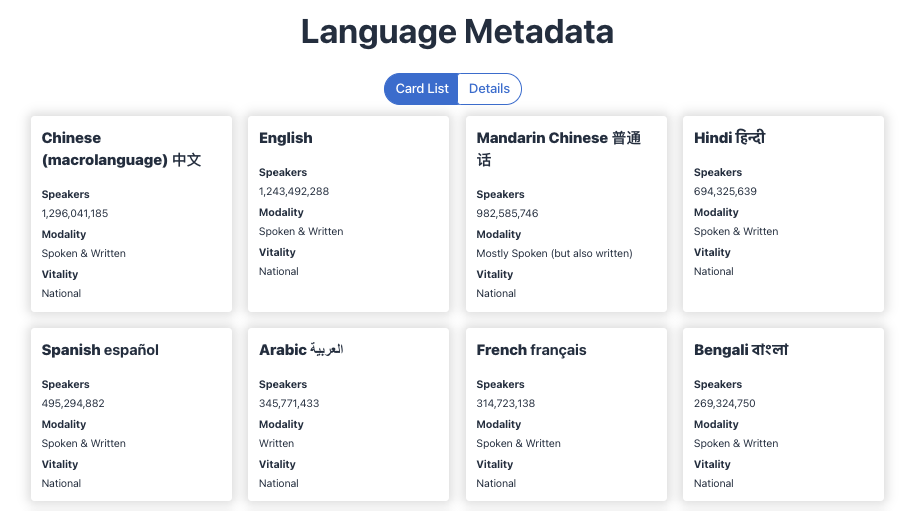
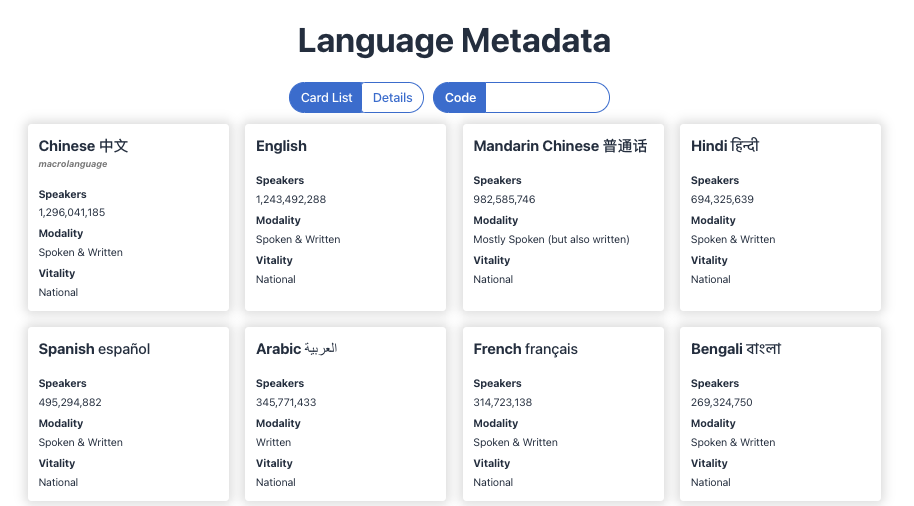
Add language details view

diff --git a/src/views/LanguageDetails.tsx b/src/views/LanguageDetails.tsx
@@ -1,0 +1,102 @@
+import React from 'react';
+import { LanguageData } from '../dataloading/DataTypes';
+import { ViewType } from '../controls/PageParamTypes';
+import { usePageParams } from '../controls/PageParamsContext';
+import { separateTitleAndSubtitle } from '../utils/stringUtils';
+
+interface Props {
+  lang: LanguageData | null;
+}
+
+const LanguageDetails: React.FC<Props> = ({ lang }) => {
+  if (lang == null) {
+    const { updatePageParams } = usePageParams();
+
+    return (
+      <div className="Details">
+        No language selected. Enter a language code in the search bar. See common languages:
+        <div style={{ display: 'flex', gap: 10, flexWrap: 'wrap' }}>
+          {Object.entries({
+            eng: 'English',
+            spa: 'Spanish',
+            fra: 'French',
+            deu: 'German',
+            zho: 'Chinese',
+            ara: 'Arabic',
+          }).map(([code, name]) => (
+            <button
+              key={code}
+              onClick={() => updatePageParams({ code, viewType: ViewType.Details })}
+            >
+              {name}
+            </button>
+          ))}
+        </div>
+      </div>
+    );
+  }
+
+  const {
+    code,
+    glottocode,
+    medium,
+    nameDisplay,
+    nameEndonym,
+    populationCited,
+    script,
+    viabilityConfidence,
+    viabilityExplanation,
+    vitalityEth2013,
+    vitalityEth2025,
+  } = lang;
+  const [title, subtitle] = separateTitleAndSubtitle(nameDisplay);
+
+  return (
+    <div className="Details">
+      <h2>
+        <strong>{title}</strong> {title != nameEndonym && nameEndonym}
+        {subtitle != null && <div className="subtitle">{subtitle} </div>}
+      </h2>
+      <div>
+        <h3>Attributes</h3>
+        <div>
+          <label>Language Code:</label>
+          {code}
+        </div>
+        <div>
+          <label>Glottocode:</label>
+          {glottocode}
+        </div>
+        <div>
+          <label>Population:</label>
+          {populationCited.toLocaleString()}
+        </div>
+        <div>
+          <label>Modality:</label>
+          {medium}
+        </div>
+        <div>
+          <label>Writing System:</label>
+          {script}
+        </div>
+      </div>
+      <div>
+        <h3>Vitality & Viability</h3>
+        <div>
+          <label>Vitality (2013):</label>
+          {vitalityEth2013}
+        </div>
+        <div>
+          <label>Vitality (2025):</label>
+          {vitalityEth2025}
+        </div>
+        <div>
+          <label>Viability:</label>
+          {viabilityConfidence} ... {viabilityExplanation}
+        </div>
+      </div>
+    </div>
+  );
+};
+
+export default LanguageDetails;

diff --git a/src/views/styles.css b/src/views/styles.css
@@ -12,9 +12,43 @@
     text-align: start;
 }
 
-.ViewCard h3 { 
+.ViewCard h3 {
     /* It's at the top of the card already */
     margin-top: 0px;
+}
+
+.Details {
+    text-align: start;
+    max-width: 50%;
+    margin-left: auto;
+    margin-right: auto;
+}
+
+
+.Details h3 {
+    margin-bottom: 4px;
+}
+
+
+.subtitle {
+    font-size: 0.6em;
+    color: grey;
+    margin-top: 0px;
+    font-style: italic;
+}
+
+label {
+    font-weight: 600;
+    margin-right: 4px;
+}
+
+a {
+    color: inherit;
+    cursor: pointer;
+}
+a:hover {
+    color: inherit;
+    text-decoration: underline;
 }
 
 @media (min-width: 0px) {
@@ -22,21 +56,21 @@
         grid-template-columns: repeat(1, 1fr);
     }
 }
-  
-  @media (min-width: 500px) {
+
+@media (min-width: 500px) {
     .CardList {
-      grid-template-columns: repeat(2, 1fr);
+        grid-template-columns: repeat(2, 1fr);
     }
-  }
-  
-  @media (min-width: 800px) {
+}
+
+@media (min-width: 800px) {
     .CardList {
-      grid-template-columns: repeat(3, 1fr);
+        grid-template-columns: repeat(3, 1fr);
     }
-  }
-  
-  @media (min-width: 1100px) {
+}
+
+@media (min-width: 1100px) {
     .CardList {
-      grid-template-columns: repeat(4, 1fr);
+        grid-template-columns: repeat(4, 1fr);
     }
-  }
+}

diff --git a/src/controls/PageParamsContext.tsx b/src/controls/PageParamsContext.tsx
@@ -14,22 +14,20 @@ export const PageParamsProvider: React.FC<{ children: React.ReactNode }> = ({ ch
   const getParam = (key: string, fallback: string = '') => pageParams.get(key) ?? fallback;
 
   const updatePageParams = (newParams: PageParamsOptional) => {
-    // const next = new URLSearchParams(pageParams);
-    // Object.entries(newParams).forEach(([key, value]) => {
-    //   if (value === undefined) {
-    //     next.delete(key);
-    //   } else {
-    //     next.set(key, value.toString());
-    //   }
-    // });
-    // setPageParams(next);
-    // const next = new URLSearchParams(pageParams);
-    setPageParams({ ...pageParams, ...newParams });
+    const next = new URLSearchParams(pageParams);
+    Object.entries(newParams).forEach(([key, value]) => {
+      if (value === undefined) {
+        next.delete(key);
+      } else {
+        next.set(key, value.toString());
+      }
+    });
+    setPageParams(next);
   };
 
   const providerValue: PageParamsContextState = useMemo(
     () => ({
-      // filterQuery: getParam("filterQuery"),
+      code: getParam('code', ''),
       viewType: getParam('viewType', ViewType.CardList) as ViewType,
       updatePageParams,
     }),

diff --git a/src/controls/ControlsBar.tsx b/src/controls/ControlsBar.tsx
@@ -1,19 +1,22 @@
 import React from 'react';
-import ButtonGroupSingleChoice from '../components/ButtonGroupSingleChoice';
+import ButtonGroupSingleChoice from './ButtonGroupSingleChoice';
 import { ViewType } from './PageParamTypes';
 import { usePageParams } from './PageParamsContext';
 
 const ControlsBar: React.FC = () => {
-  const { viewType, updatePageParams } = usePageParams();
+  const { viewType, updatePageParams, code } = usePageParams();
 
   return (
-    <div style={{ marginBottom: '1rem' }}>
+    <div className="controlsBar">
       <ButtonGroupSingleChoice<ViewType>
         options={[ViewType.CardList, ViewType.Details]}
-        onChange={(viewType: ViewType) => updatePageParams({ viewType })}
+        onChange={(viewType: ViewType) => updatePageParams({ viewType, code: '' })}
         selected={viewType}
-        // renderLabel={getDataTypeLabel}
       />
+      <div className="selector">
+        <label>Code</label>
+        <input value={code} onChange={(ev) => updatePageParams({ code: ev.target.value })} />
+      </div>
     </div>
   );
 };

diff --git a/src/views/Cards/LanguageCard.tsx b/src/views/Cards/LanguageCard.tsx
@@ -1,17 +1,25 @@
 import React from 'react';
 import { LanguageData } from '../../dataloading/DataTypes';
+import { usePageParams } from '../../controls/PageParamsContext';
+import { ViewType } from '../../controls/PageParamTypes';
+import { separateTitleAndSubtitle } from '../../utils/stringUtils';
 
 interface Props {
   lang: LanguageData;
 }
 
 const LanguageCard: React.FC<Props> = ({ lang }) => {
+  const { updatePageParams } = usePageParams();
   const { vitalityEth2013, medium, populationCited, nameDisplay, nameEndonym } = lang;
+  const [title, subtitle] = separateTitleAndSubtitle(nameDisplay);
 
   return (
-    <div className="LanguageCard">
+    <div>
       <h3>
-        <strong>{nameDisplay}</strong> {nameDisplay != nameEndonym && nameEndonym}
+        <a onClick={() => updatePageParams({ code: lang.code, viewType: ViewType.Details })}>
+          <strong>{title}</strong> {title != nameEndonym && nameEndonym}
+        </a>
+        {subtitle != null && <div className="subtitle">{subtitle} </div>}
       </h3>
       <div>
         <h4>Speakers</h4>

diff --git a/src/controls/styles.css b/src/controls/styles.css
@@ -1,0 +1,51 @@
+.controlsBar {
+    margin-bottom: 1rem;
+}
+
+.selector {
+    margin-left: 0.125em;
+    margin-right: 1em;
+    display: inline-flex;
+    align-items: center;
+}
+
+.selector button, .selector input, .selector label {
+    border: 0.125em solid #0077d4;
+    margin-left: -0.125em;
+    margin-right: -0.125em;
+    line-height: 1.5;
+    padding: .5rem 1rem;
+    font-size: 1.2em;
+    cursor: pointer;
+}
+
+.selector button {
+    color: #0077d4;
+    background: white;
+}
+
+.selector input {
+    color: #0077d4;
+    background: white;
+    padding: 0.50rem 1rem;
+    width: 8em;
+}
+
+.selector button:hover {
+    background: #e0f1ff;
+}
+
+.selector :first-child {
+    border-bottom-left-radius: 2em;
+    border-top-left-radius: 2em;
+}
+
+.selector :last-child {
+    border-bottom-right-radius: 2em;
+    border-top-right-radius: 2em;
+}
+
+.selector .selected, .selector label {
+    background: #0077d4;
+    color: white;
+}

diff --git a/src/Body.tsx b/src/Body.tsx
@@ -1,14 +1,17 @@
 import './App.css';
 import { usePageParams } from './controls/PageParamsContext';
 import { ViewType } from './controls/PageParamTypes';
+import { useDataContext } from './dataloading/DataContext';
 import LanguageCardList from './views/LanguageCardList';
+import LanguageDetails from './views/LanguageDetails';
 
 function Body() {
-  const { viewType } = usePageParams();
+  const { viewType, code } = usePageParams();
+  const { languagesByCode } = useDataContext();
   return (
     <>
       {viewType === ViewType.CardList && <LanguageCardList />}
-      {viewType === ViewType.Details && <div>Not implemented yet</div>}
+      {viewType === ViewType.Details && <LanguageDetails lang={languagesByCode[code]} />}
     </>
   );
 }

diff --git a/src/utils/stringUtils.tsx b/src/utils/stringUtils.tsx
@@ -1,0 +1,8 @@
+// Extracting words in parentheses from the input string
+export function separateTitleAndSubtitle(str: string): [string, string | null] {
+  const regex = /\(([^)]+)\)/;
+  const match = str.match(regex);
+  const title = match ? str.replace(regex, '').trim() : str;
+  const subtitle = match != null && match.length > 1 ? match[1].trim() : null;
+  return [title, subtitle];
+}

diff --git a/src/controls/ButtonGroupSingleChoice.tsx b/src/controls/ButtonGroupSingleChoice.tsx
@@ -15,7 +15,7 @@ function ButtonGroupSingleChoice<T extends React.Key>({
   renderLabel = (val) => val as string,
 }: ButtonGroupSingleChoiceProps<T>) {
   return (
-    <div className="ButtonGroupSingleChoice" style={{ display: 'inline-block' }}>
+    <div className="selector">
       {options.map((option) => (
         <button
           key={option}

diff --git a/src/controls/PageParamTypes.tsx b/src/controls/PageParamTypes.tsx
@@ -16,11 +16,11 @@ export enum ViewType {
 export type PageParams = {
   //   dimension?: Dimension;
   viewType: ViewType;
-  //   filterQuery?: string;
+  code: string;
 };
 
 export type PageParamsOptional = {
   //   dimension?: Dimension;
   viewType?: ViewType;
-  //   filterQuery?: string;
+  code?: string;
 };

diff --git a/README.md b/README.md
@@ -21,13 +21,14 @@ Here's a list of planned functionality. Completed functions are checked off.
   - [ ] Language Variants / IANA tags
 - [ ] Views
   - [x] Cards
-  - [ ] Details
+  - [x] Details
   - [ ] Hierarchy
   - [ ] Table
 - [ ] Interactivity
   - [ ] Filter
     - [ ] By Code
     - [ ] By Name
+    - [ ] Using typeahead
   - [ ] Sort
     - [ ] By Population
     - [ ] By Name
